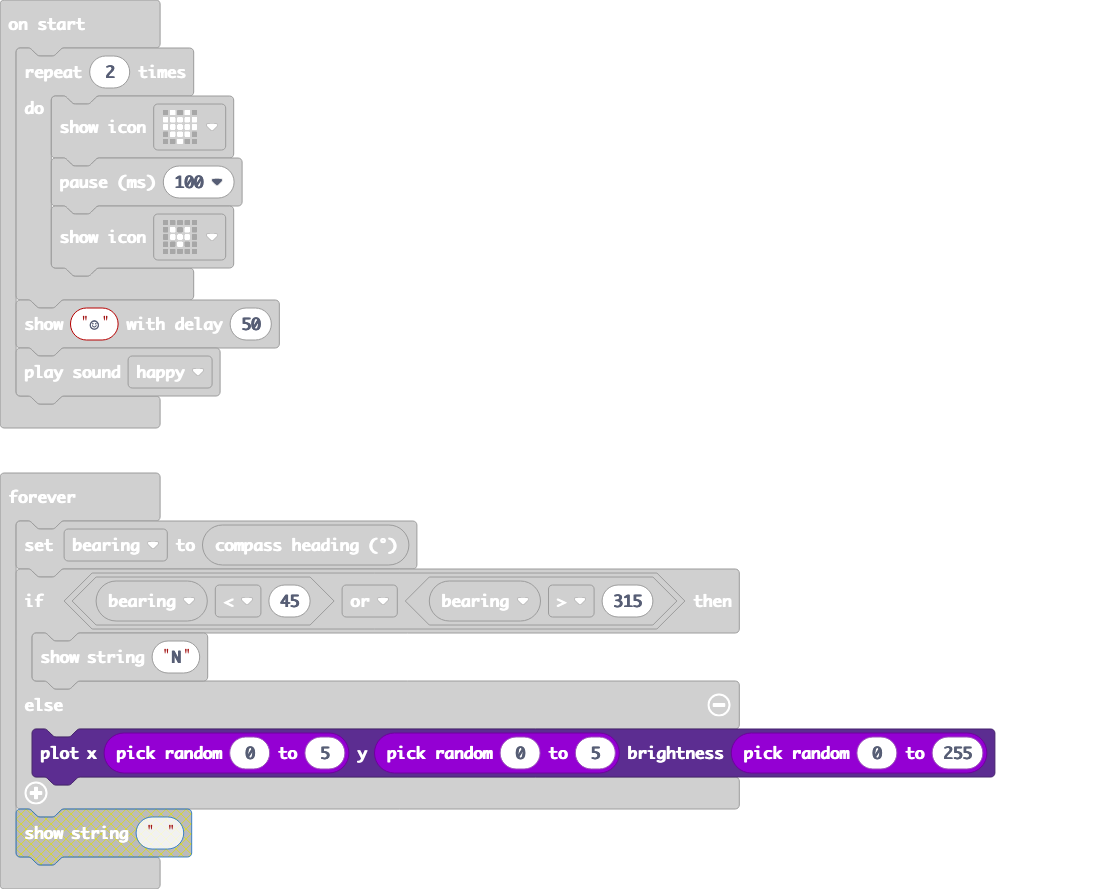
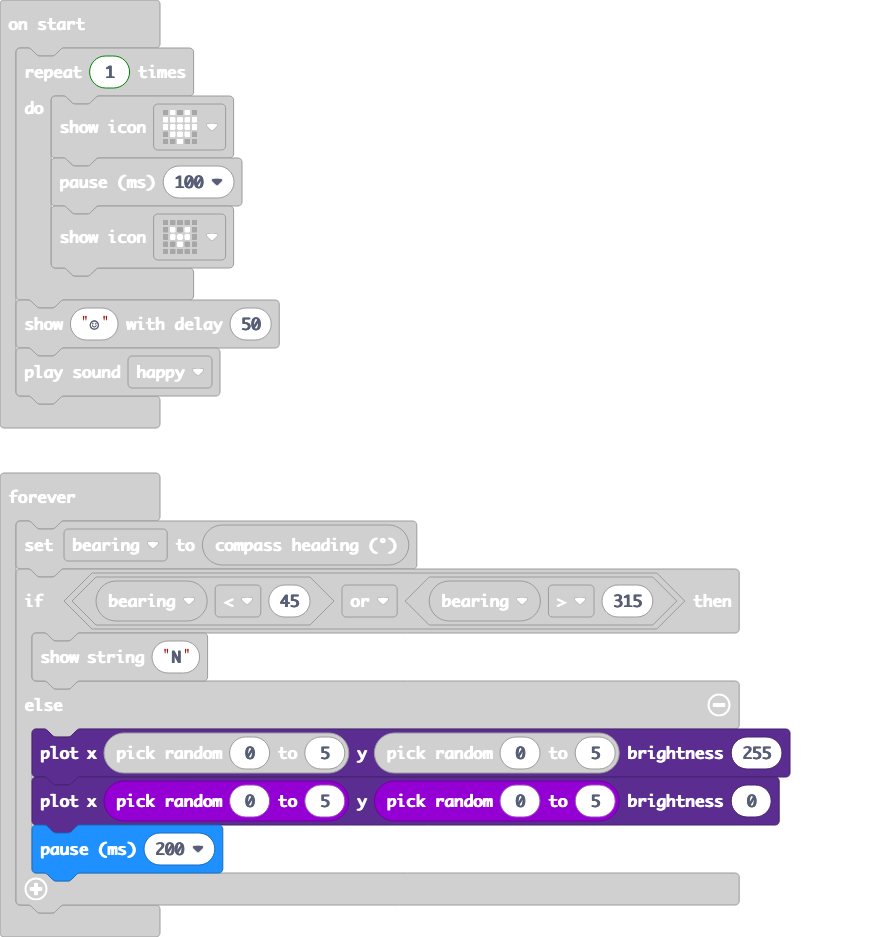
Update main.blocks, main.ts

Changed region(s): [[0.0, 0.0, 0.906, 1.0]]

diff --git a/main.ts b/main.ts
@@ -1,5 +1,5 @@
 let bearing = 0
-for (let index = 0; index < 2; index++) {
+for (let index = 0; index < 1; index++) {
     basic.showIcon(IconNames.Heart)
     basic.pause(100)
     basic.showIcon(IconNames.SmallHeart)
@@ -11,6 +11,8 @@ basic.forever(function () {
     if (bearing < 45 || bearing > 315) {
         basic.showString("N")
     } else {
-        led.plotBrightness(randint(0, 5), randint(0, 5), randint(0, 255))
+        led.plotBrightness(randint(0, 5), randint(0, 5), 255)
+        led.plotBrightness(randint(0, 5), randint(0, 5), 0)
+        basic.pause(200)
     }
 })
